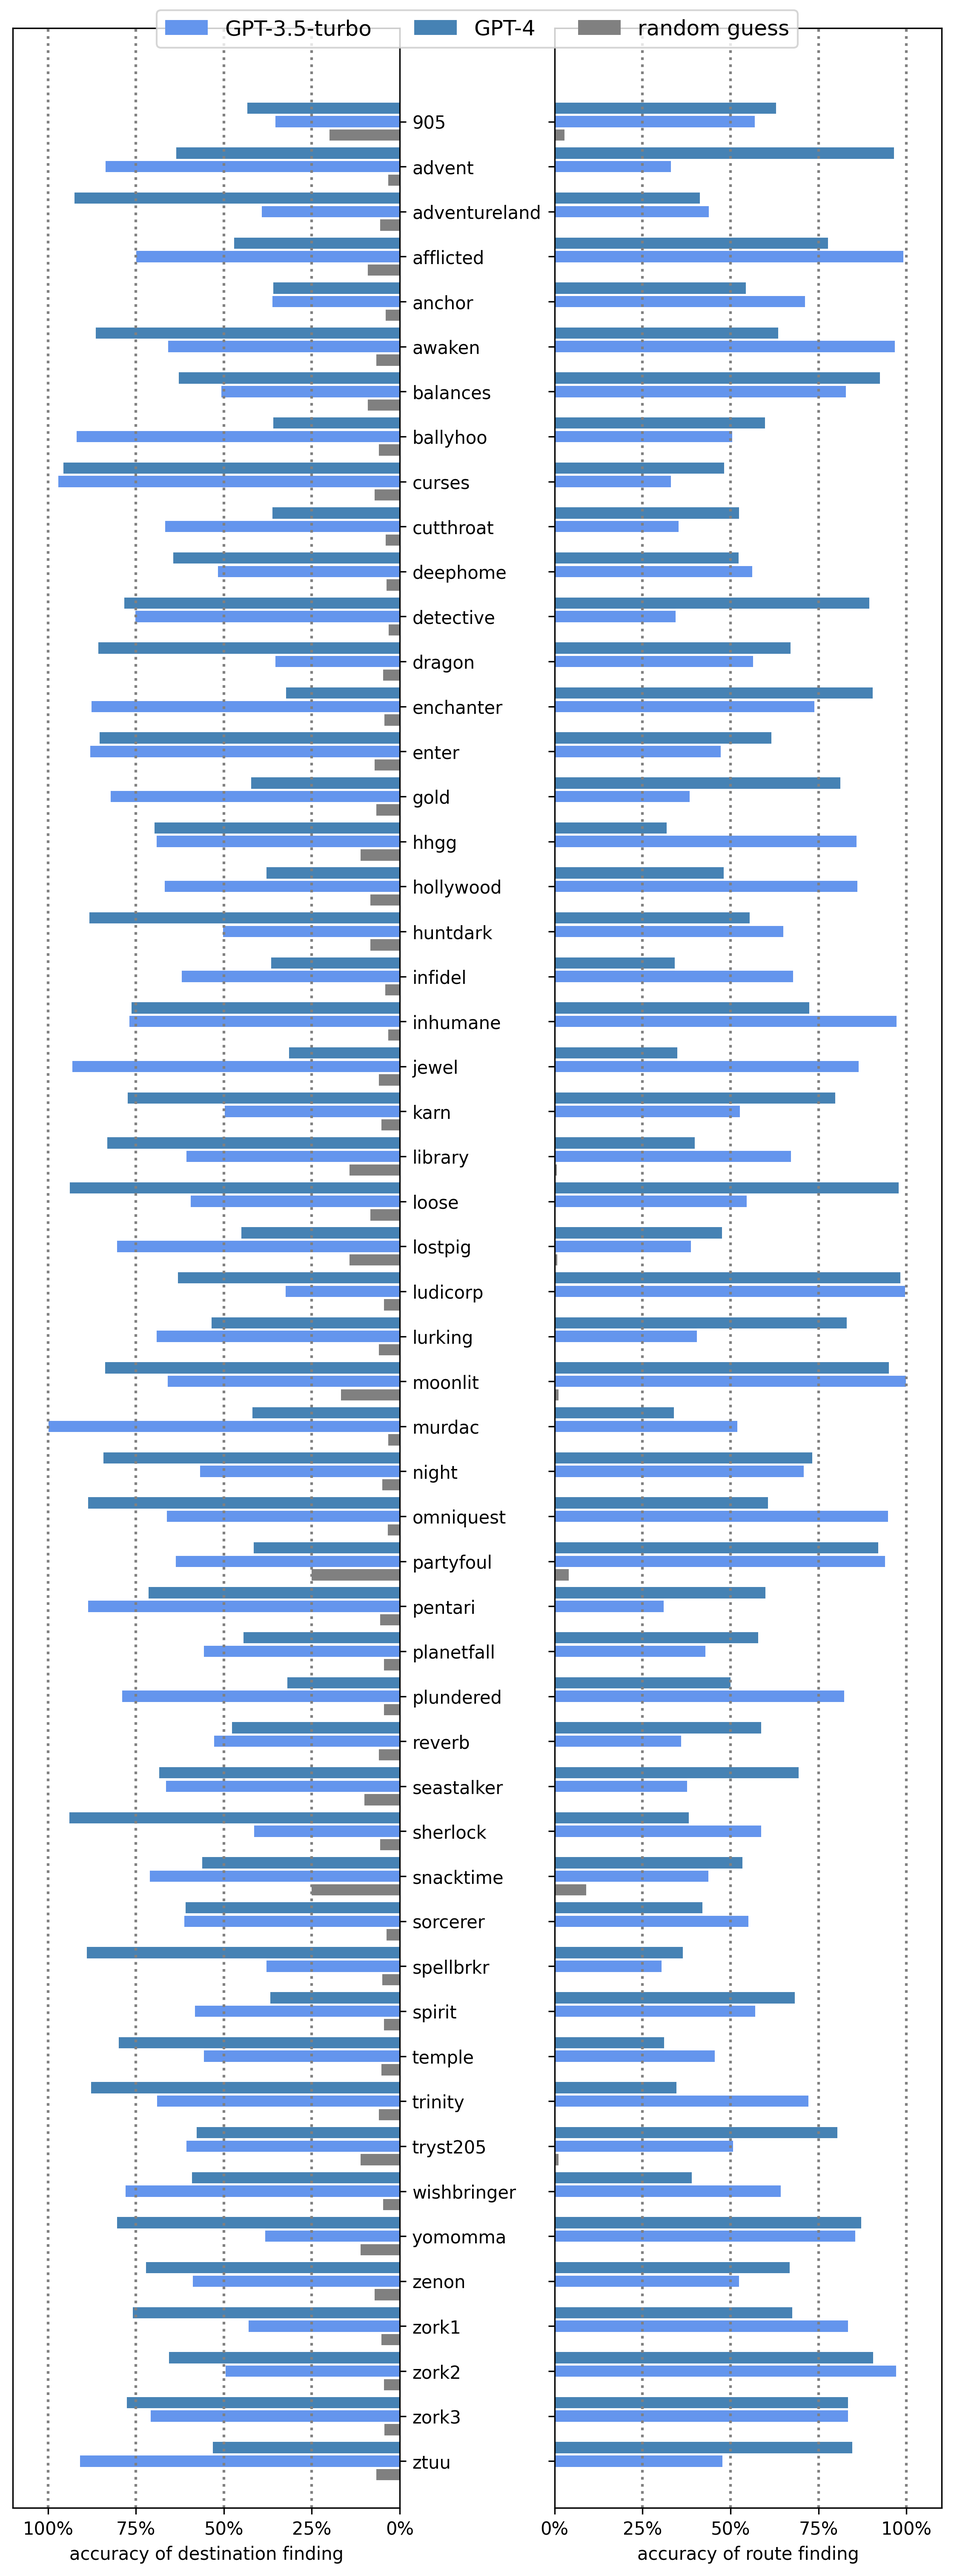
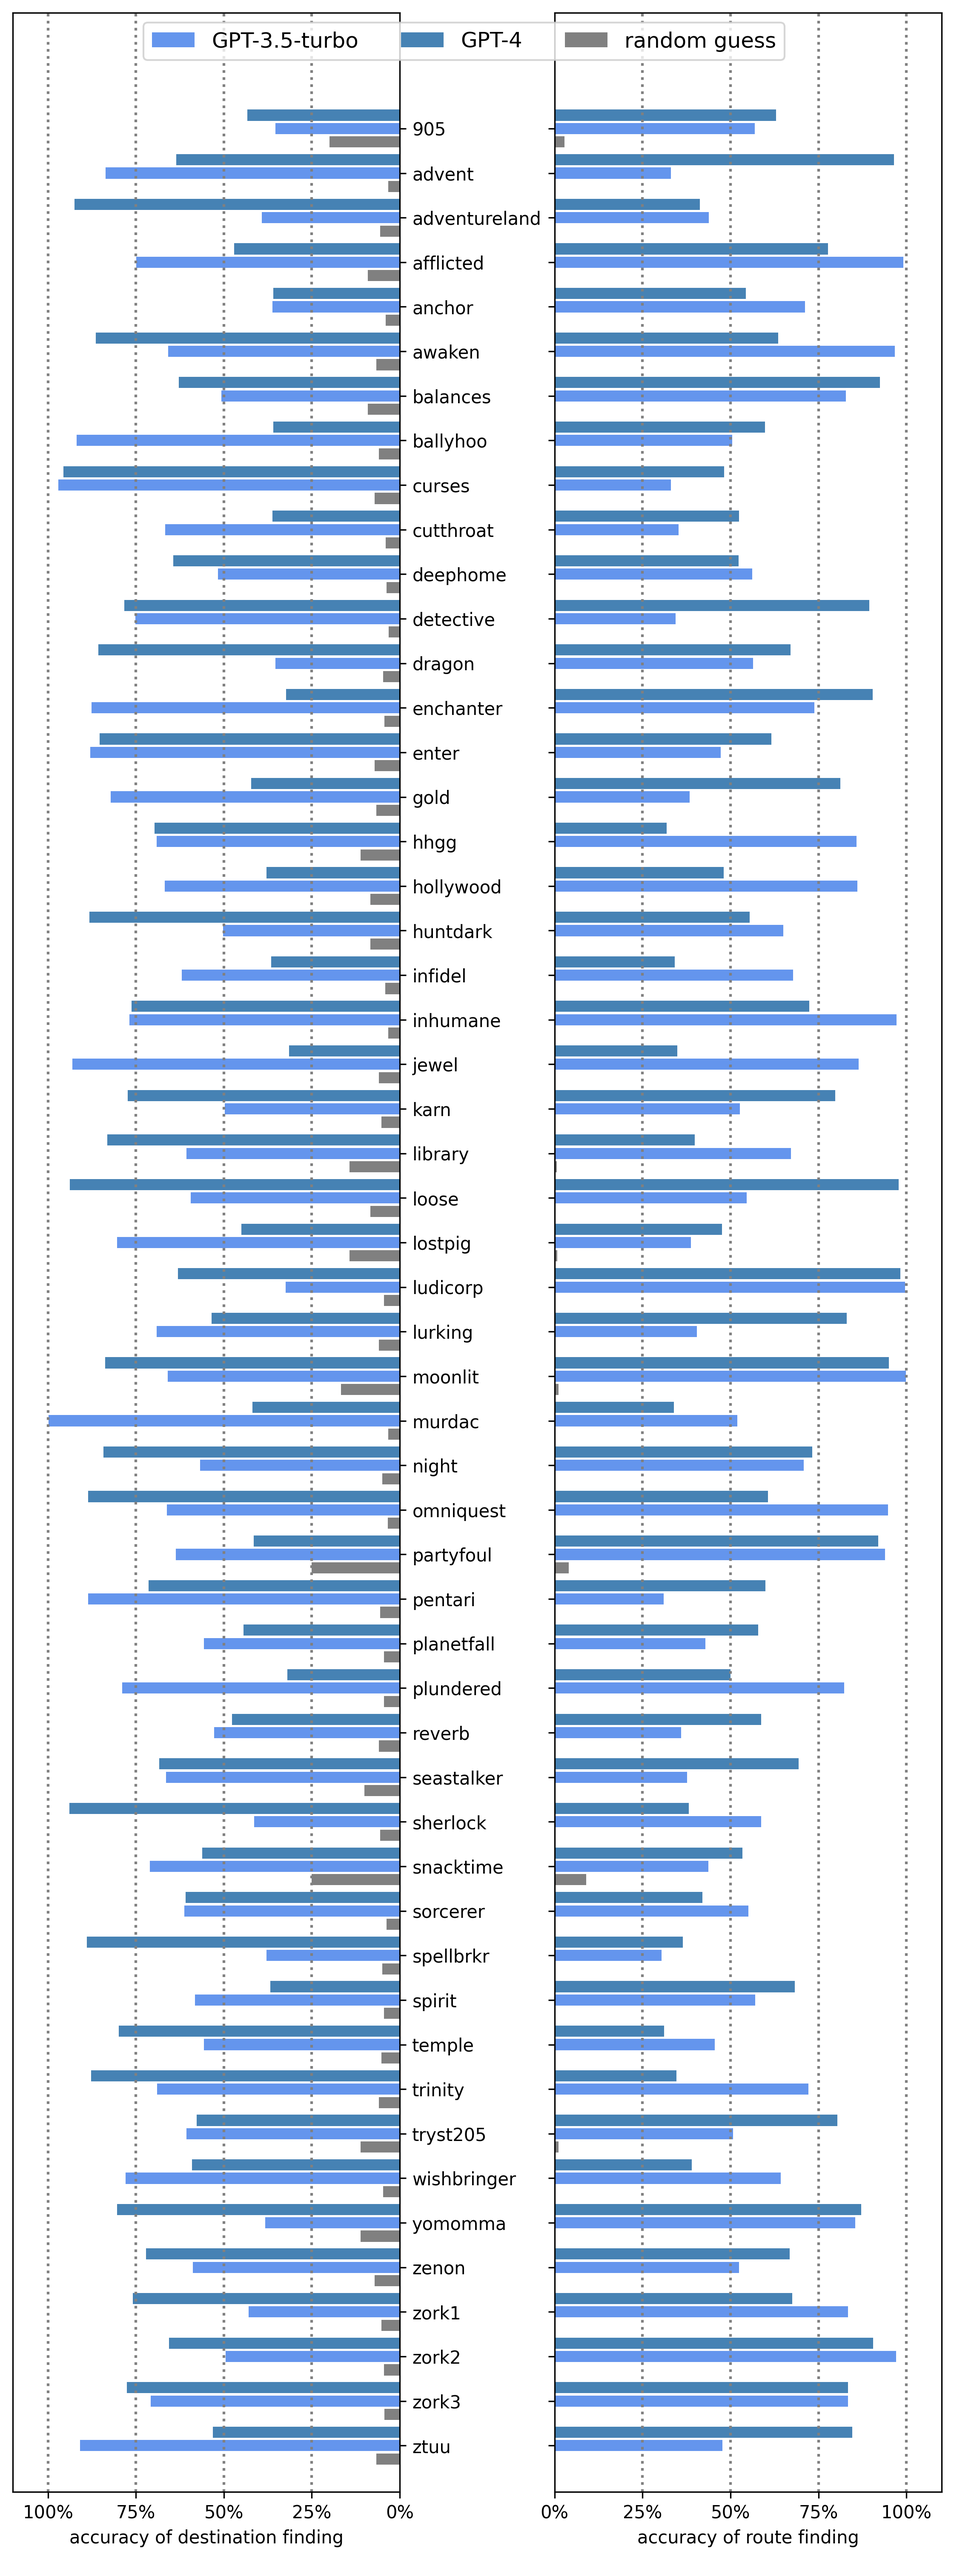
nudge legend down a bit from the upper center

diff --git a/src/gen_plots/gpt.together.py b/src/gen_plots/gpt.together.py
@@ -107,7 +107,7 @@ ax2.barh(
 # Set the y-axis labels as test names
 whitespace = 0.02 * max(r1)
 ax1.set_ylim(
-    -whitespace, max(r1) + 2 * whitespace
+    -whitespace, max(r1) + 2.5 * whitespace
 )  # Adjust the y-axis limits as needed
 ax1.set_yticks(r1, game_names)
 ax1.yaxis.tick_right()
@@ -150,7 +150,7 @@ for handle, label in zip(handles, labels):
         unique_labels.append(label)
         unique_handles.append(handle)
 
-fig.legend(unique_handles, unique_labels, loc="upper center", ncol=3, fontsize="large")
+fig.legend(unique_handles, unique_labels, loc="upper center", ncol=3, fontsize="large", bbox_to_anchor=(0.5, 0.99))
 
 
 # Add extra space on the left and right sides of the plot
